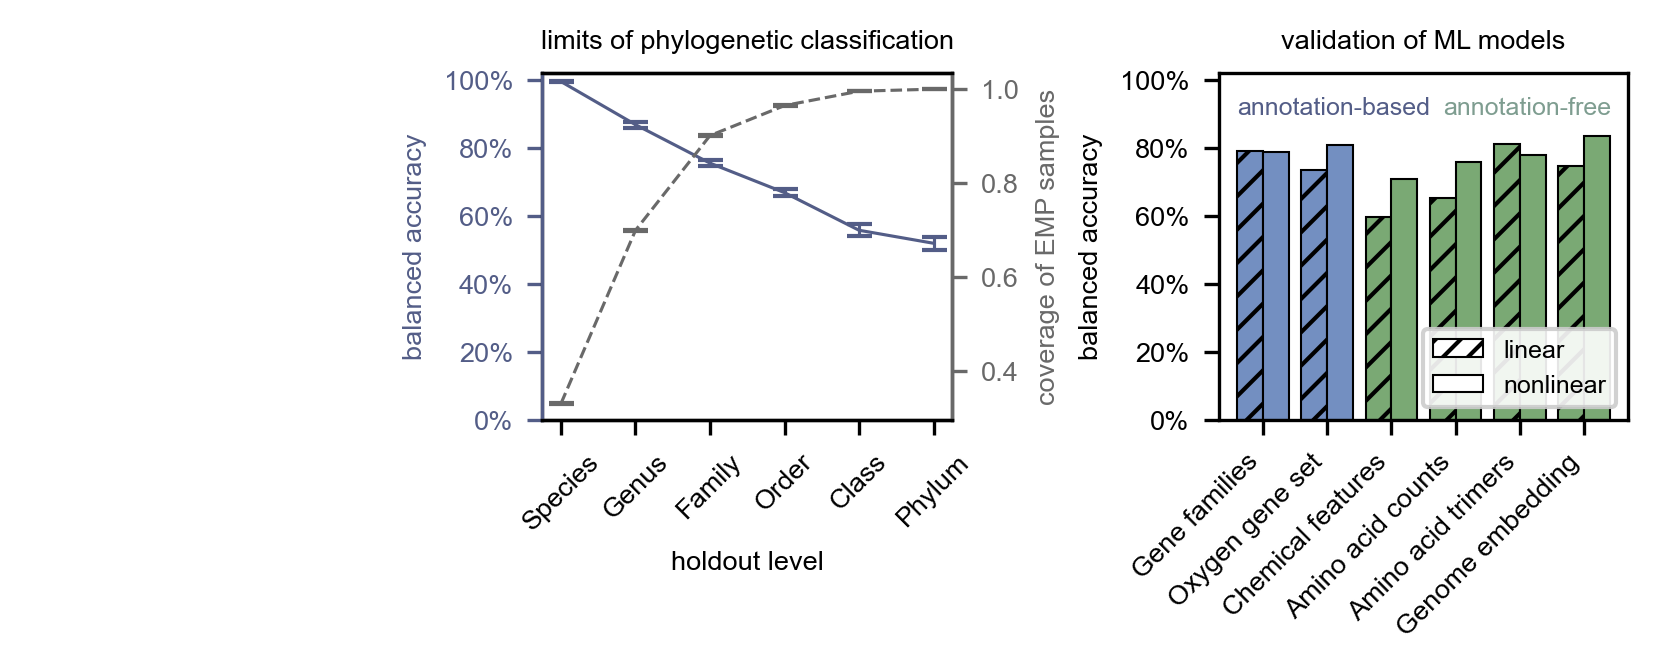
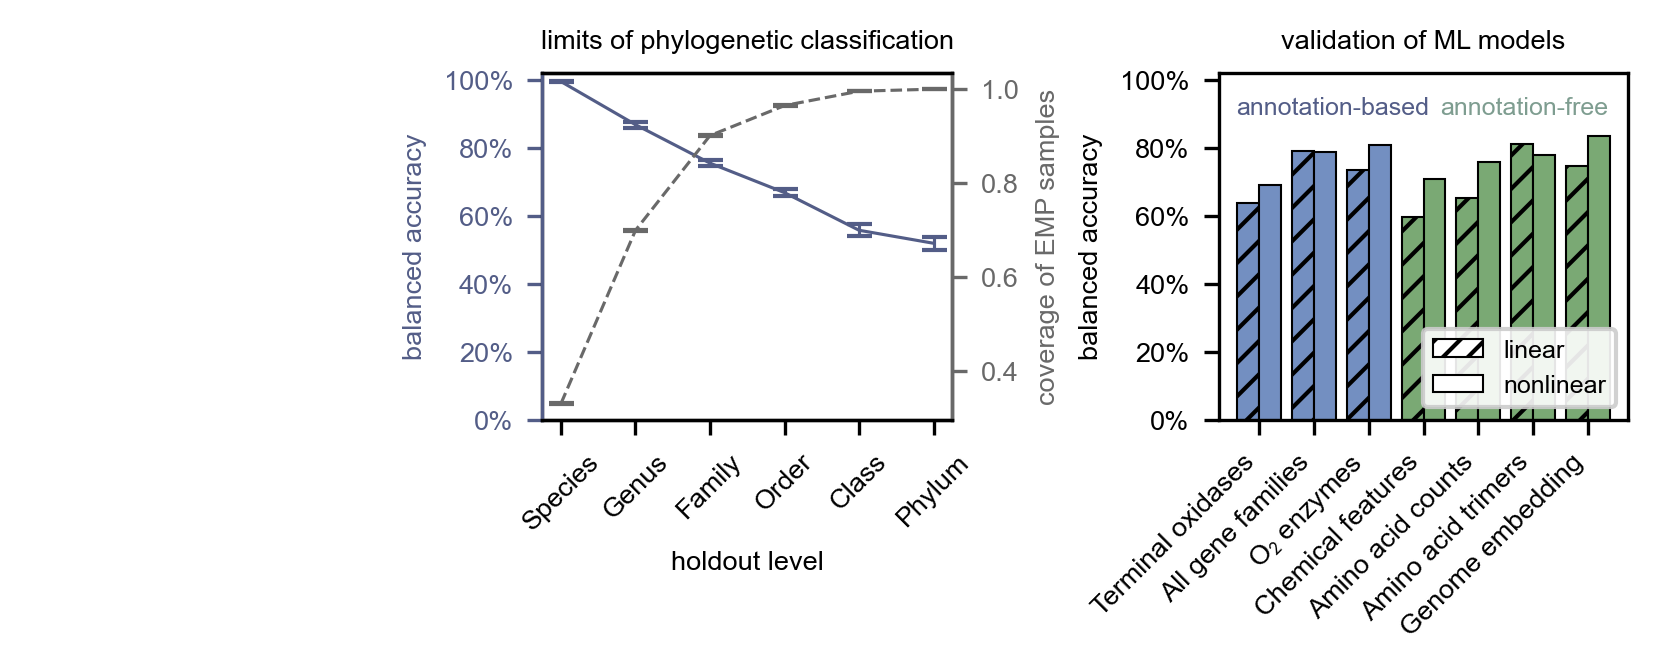
updated figs

diff --git a/results/feature_type_results_table.tex b/results/feature_type_results_table.tex
@@ -6,16 +6,16 @@ feature type &  &  &  \\
 Genome embedding & 0.83 (0.87) & 0.75 (1.00) & 0.91 (1.00) \\
 Amino acid dimers & 0.81 (0.92) & 0.69 (0.95) & 0.87 (0.99) \\
 CDS nucleotide 4-mer & 0.81 (0.88) & 0.72 (0.81) & 0.90 (0.93) \\
-Oxygen gene set & 0.81 (0.90) & 0.73 (1.00) & 0.89 (1.00) \\
+O$_2$ enzyme embeddings & 0.81 (0.90) & 0.73 (1.00) & 0.89 (1.00) \\
 CDS nucleotide 5-mer & 0.79 (0.89) & 0.75 (1.00) & 0.88 (1.00) \\
 Nucleotide 4-mer & 0.79 (0.86) & 0.71 (0.75) & 0.87 (0.91) \\
-Gene families & 0.79 (0.96) & 0.79 (1.00) & 0.93 (1.00) \\
+All gene families & 0.79 (0.96) & 0.79 (1.00) & 0.93 (1.00) \\
 Amino acid trimers & 0.78 (0.95) & 0.81 (1.00) & 0.92 (1.00) \\
 Amino acid counts & 0.76 (0.78) & 0.65 (0.65) & 0.85 (0.87) \\
 CDS nucleotide trimers & 0.76 (0.81) & 0.66 (0.69) & 0.85 (0.88) \\
 Nucleotide trimers & 0.72 (0.77) & 0.61 (0.64) & 0.80 (0.84) \\
 Chemical features & 0.71 (0.68) & 0.60 (0.59) & 0.85 (0.86) \\
-Terminal oxidase gene families & 0.69 (0.69) & 0.64 (0.63) & 0.90 (0.90) \\
+Terminal oxidase counts & 0.69 (0.69) & 0.64 (0.63) & 0.90 (0.90) \\
 CDS nucleotide dimers & 0.65 (0.67) & 0.54 (0.54) & 0.77 (0.77) \\
 Percentage oxygen genes & 0.62 (0.62) & 0.61 (0.61) & 0.88 (0.89) \\
 Number of oxygen genes & 0.61 (0.60) & 0.63 (0.60) & 0.88 (0.88) \\
